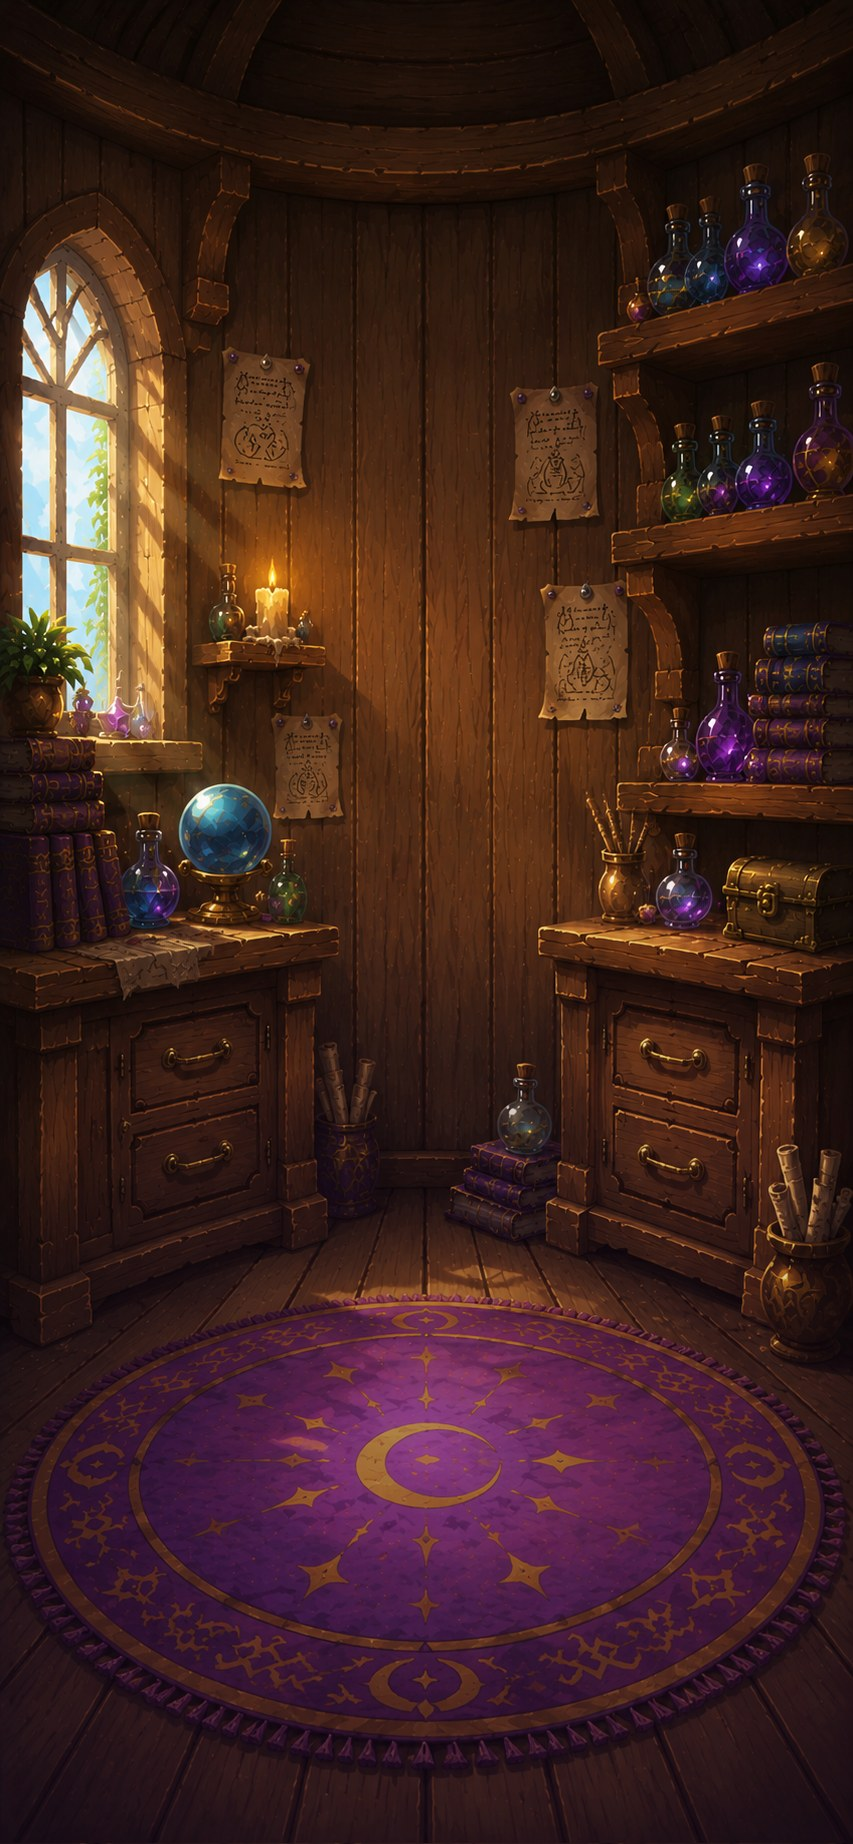
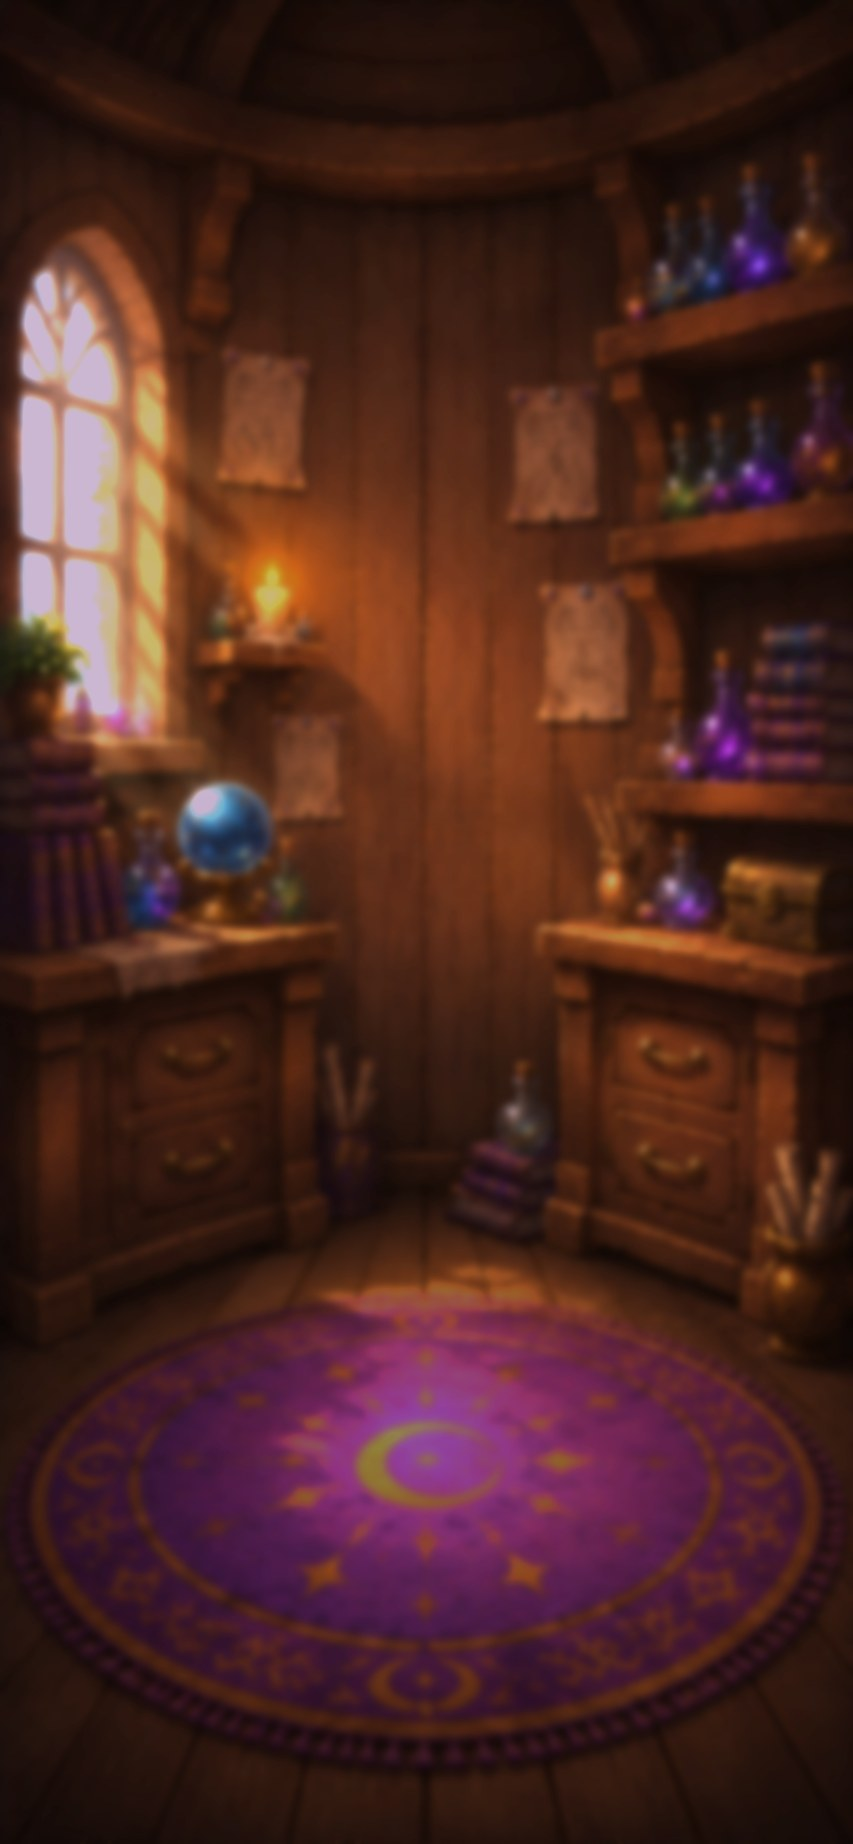
Use softer, warm-blurred mixing background
New corner-shop art with the depth-of-field blur and candle glow baked
in, so the UI pops without feeling dingy. Bump build to v322.

Claude-Session: https://claude.ai/code/session_01LXqynh2272HPNfiS49TDfc

diff --git a/docs/index.html b/docs/index.html
@@ -9,10 +9,10 @@
 <meta name="apple-mobile-web-app-title" content="Wish Pop">
 <meta name="mobile-web-app-capable" content="yes">
 <title>Wish Pop: Bubble Shop</title>
-<link rel="manifest" href="manifest.webmanifest?v=321">
-<link rel="apple-touch-icon" href="apple-touch-icon.png?v=321">
-<link rel="icon" type="image/png" href="icon-192.png?v=321">
-<link rel="stylesheet" href="css/styles.css?v=321">
+<link rel="manifest" href="manifest.webmanifest?v=322">
+<link rel="apple-touch-icon" href="apple-touch-icon.png?v=322">
+<link rel="icon" type="image/png" href="icon-192.png?v=322">
+<link rel="stylesheet" href="css/styles.css?v=322">
 </head>
 <body>
 <div id="app">
@@ -40,11 +40,11 @@
   <p class="muted">Wish Pop is played upright. Turn your phone back to keep making wishes come true!</p>
 </div>
 
-<script src="js/audio.js?v=321"></script>
-<script src="js/data.js?v=321"></script>
-<script src="js/engine.js?v=321"></script>
-<script src="js/art.js?v=321"></script>
-<script src="js/ui.js?v=321"></script>
+<script src="js/audio.js?v=322"></script>
+<script src="js/data.js?v=322"></script>
+<script src="js/engine.js?v=322"></script>
+<script src="js/art.js?v=322"></script>
+<script src="js/ui.js?v=322"></script>
 <script>
   /* Register the service worker so the game can be installed to the home screen
      and work offline. No notifications are involved. */

diff --git a/docs/css/styles.css b/docs/css/styles.css
@@ -1942,7 +1942,7 @@ body.realm-courtyard .realm-here { background: linear-gradient(90deg, rgba(255,2
  * ===================================================================== */
 .mixv2 { flex: 1; min-height: 0; display: flex; flex-direction: column; gap: 5px;
   margin: -8px -14px -12px; padding: 6px 10px 8px;
-  background: url('../art/mix_bg.jpg?v=321') center top / cover no-repeat, #160c26; }
+  background: url('../art/mix_bg.jpg?v=322') center top / cover no-repeat, #160c26; }
 .m2-head { display: flex; align-items: center; gap: 8px; flex: 0 0 auto; }
 .m2-cust { flex: 1; min-width: 0; display: flex; align-items: center; justify-content: center; gap: 6px; }
 .m2-cust img.art { width: 40px !important; height: 40px !important; max-width: none; max-height: none; object-fit: contain;

diff --git a/docs/js/ui.js b/docs/js/ui.js
@@ -7,7 +7,7 @@
 
 const { R, newRound, applyTripleMatch, scoreMix, scoreResult, BALANCE } = ENGINE;
 const D = DATA;
-const BUILD = "v321"; // bump on each deploy; shown on the start screen to verify the live version
+const BUILD = "v322"; // bump on each deploy; shown on the start screen to verify the live version
 if (typeof ART !== "undefined" && ART.setVersion) ART.setVersion(BUILD); // cache-bust all art per build so updated images always refetch
 
 /* --- persistent save ---------------------------------------------------- */